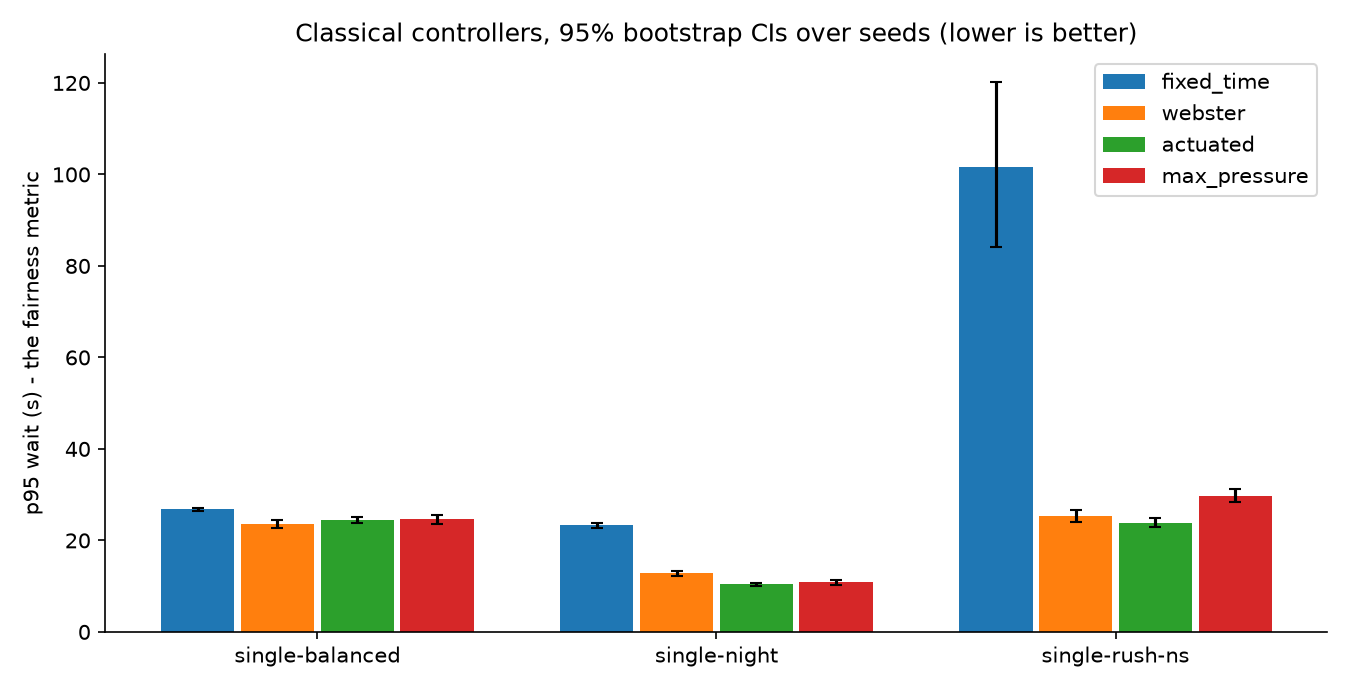
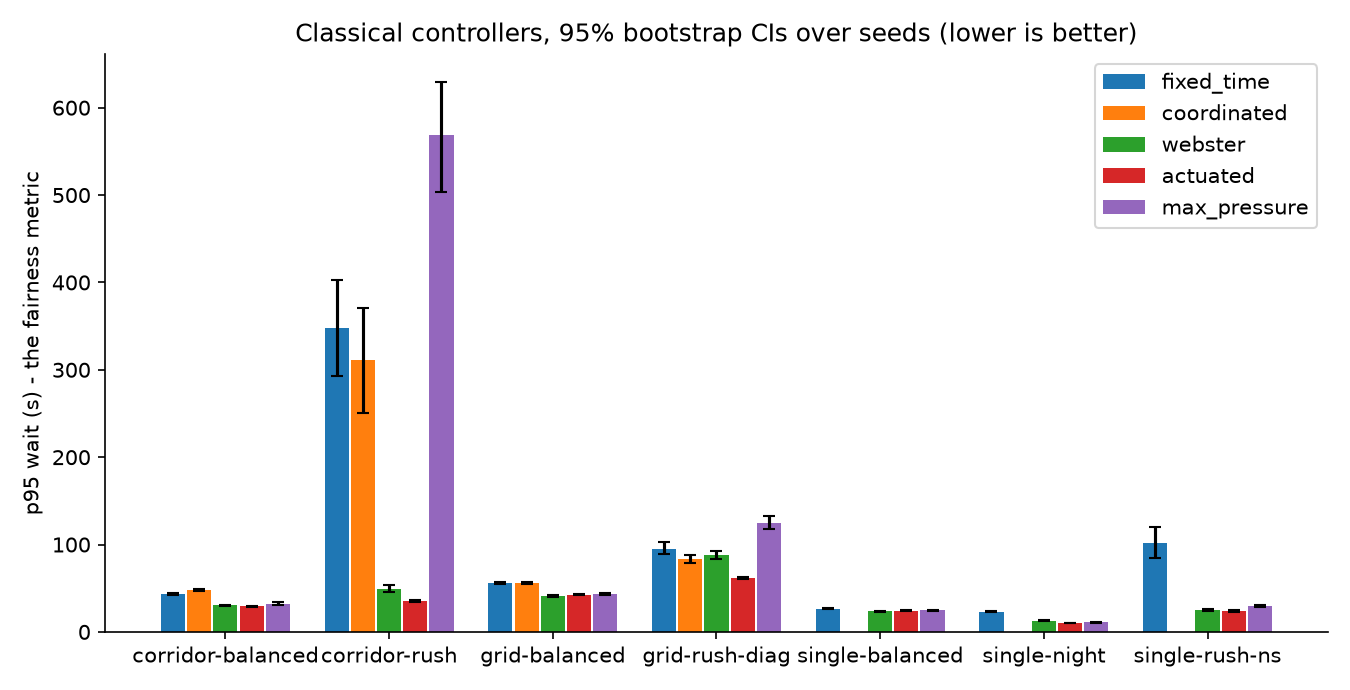
leaderboard v2: phase-2 classical board (7 scenarios, 20 seeds, CIs)

diff --git a/docs/leaderboard.md b/docs/leaderboard.md
@@ -1,4 +1,4 @@
-# Phase-1 leaderboard: classical controllers
+# Leaderboard: classical controllers
 
 Protocol (ADR 0002 §6): 20 seeds per cell, 300 s warmup excluded, 3600 s measurement window, mean [95% bootstrap CI] over seeds.
 
@@ -10,7 +10,49 @@ Honesty notes:
 - Webster runs on the sim's MEASURED saturation flow (1440 veh/h, startup lost 1.60 s), never textbook constants.
 - ActuatedGapOut sees only a stop-line loop + 50 m advance detector.
 - FixedTime runs a deliberately naive 50/50 split - it is the floor, and losing to it means something is broken.
+- Coordinated (multi-intersection scenarios only) is FixedTime plus travel-time offsets - the hand-built green wave. One-way progression: the counter-direction pays for the wave, and that is reported, not hidden.
+- max_pressure runs its network form on corridors/grids (subtracts true downstream-link occupancy via the Observation); single-intersection rows keep the phase-1 sink form for comparability.
 - refusals > 0 would mean a controller tried to break the signal machine's safety interlocks. forced > 0 means the max-red cap fired: either a genuinely starved road user (night max-pressure: blind to pedestrians, so the machine rescues them), or the first arrival on an approach whose green had been resting past the cap (night actuated: the cap front-runs a controller that honestly cannot see a distant car).
+
+## corridor-balanced
+
+| controller | travel time (s) | wait (s) | p95 wait (s) | throughput (veh/h) | stops/veh | ped wait (s) | p95 ped wait (s) | unserved (veh/ped) | refused | forced |
+|---|---|---|---|---|---|---|---|---|---|---|
+| fixed_time | 79.1 [78.7, 79.6] | 12.9 [12.7, 13.2] | 43.0 [42.1, 44.0] | 2008 [1989, 2026] | 0.73 [0.73, 0.74] | 17.6 [17.2, 17.9] | 47.8 [47.2, 48.3] | 0.1/4.5 | 0 | 0.0 |
+| coordinated | 78.9 [78.5, 79.3] | 12.3 [12.1, 12.5] | 48.1 [47.0, 49.3] | 2008 [1988, 2026] | 0.73 [0.73, 0.74] | 17.7 [17.5, 18.0] | 47.9 [47.3, 48.5] | 0.1/3.2 | 0 | 0.0 |
+| webster | 75.8 [75.4, 76.2] | 8.5 [8.2, 8.7] | 30.3 [29.4, 31.1] | 2007 [1987, 2025] | 0.74 [0.73, 0.75] | 12.4 [12.2, 12.6] | 33.9 [33.5, 34.3] | 0.1/1.7 | 0 | 0.0 |
+| actuated | 74.6 [74.2, 75.0] | 8.0 [7.8, 8.2] | 29.1 [28.4, 29.8] | 2007 [1989, 2025] | 0.67 [0.66, 0.67] | 14.4 [14.1, 14.6] | 40.2 [39.4, 41.1] | 0.1/1.9 | 0 | 0.0 |
+| max_pressure | 76.7 [76.1, 77.3] | 8.9 [8.6, 9.2] | 32.5 [30.7, 34.7] | 2006 [1987, 2024] | 0.78 [0.76, 0.79] | 12.0 [11.8, 12.2] | 33.2 [32.9, 33.6] | 0.1/1.9 | 0 | 0.0 |
+
+## corridor-rush
+
+| controller | travel time (s) | wait (s) | p95 wait (s) | throughput (veh/h) | stops/veh | ped wait (s) | p95 ped wait (s) | unserved (veh/ped) | refused | forced |
+|---|---|---|---|---|---|---|---|---|---|---|
+| fixed_time | 193.0 [181.0, 204.1] | 81.2 [71.6, 90.6] | 348.2 [293.3, 403.0] | 1492 [1478, 1505] | 2.63 [2.48, 2.75] | 17.7 [17.4, 18.0] | 47.9 [47.4, 48.4] | 44.8/3.8 | 0 | 0.0 |
+| coordinated | 183.7 [170.1, 196.4] | 73.8 [63.1, 84.3] | 311.3 [250.6, 370.3] | 1497 [1482, 1511] | 2.53 [2.35, 2.69] | 17.9 [17.6, 18.2] | 47.8 [47.4, 48.2] | 39.5/2.8 | 0 | 0.0 |
+| webster | 102.0 [99.9, 104.3] | 16.7 [15.8, 17.7] | 49.4 [45.3, 53.5] | 1575 [1555, 1594] | 1.20 [1.15, 1.25] | 17.5 [17.0, 17.9] | 47.6 [46.4, 48.7] | 0.0/2.6 | 0 | 0.0 |
+| actuated | 93.1 [92.4, 93.7] | 12.0 [11.7, 12.3] | 35.5 [34.7, 36.3] | 1568 [1550, 1587] | 0.94 [0.92, 0.96] | 17.8 [17.6, 18.0] | 49.4 [48.8, 49.9] | 0.0/2.5 | 0 | 0.0 |
+| max_pressure | 245.5 [234.0, 256.6] | 112.8 [102.4, 122.7] | 568.3 [503.9, 630.0] | 1433 [1422, 1445] | 4.02 [3.92, 4.10] | 12.5 [12.2, 12.7] | 33.8 [33.4, 34.3] | 99.2/2.4 | 0 | 0.0 |
+
+## grid-balanced
+
+| controller | travel time (s) | wait (s) | p95 wait (s) | throughput (veh/h) | stops/veh | ped wait (s) | p95 ped wait (s) | unserved (veh/ped) | refused | forced |
+|---|---|---|---|---|---|---|---|---|---|---|
+| fixed_time | 125.1 [124.8, 125.4] | 30.5 [30.3, 30.7] | 55.9 [55.2, 56.6] | 3010 [2989, 3030] | 1.49 [1.48, 1.49] | 16.3 [16.1, 16.5] | 46.0 [45.6, 46.3] | 0.1/9.1 | 0 | 0.0 |
+| coordinated | 119.6 [119.1, 120.1] | 26.4 [26.2, 26.7] | 55.9 [55.1, 56.8] | 3012 [2992, 3031] | 1.38 [1.37, 1.39] | 16.3 [16.1, 16.5] | 46.5 [46.1, 46.8] | 0.1/6.0 | 0 | 0.0 |
+| webster | 116.2 [115.7, 116.6] | 17.4 [17.1, 17.7] | 41.2 [40.5, 41.9] | 3014 [2994, 3034] | 1.52 [1.50, 1.54] | 11.3 [11.2, 11.5] | 32.4 [32.1, 32.6] | 0.1/4.3 | 0 | 0.0 |
+| actuated | 113.2 [112.8, 113.7] | 15.8 [15.5, 16.0] | 42.6 [42.0, 43.3] | 3009 [2987, 3029] | 1.32 [1.31, 1.33] | 13.8 [13.6, 14.0] | 40.8 [40.0, 41.4] | 0.1/5.3 | 0 | 0.0 |
+| max_pressure | 117.6 [117.2, 118.0] | 17.9 [17.7, 18.2] | 43.4 [42.7, 44.2] | 3014 [2992, 3034] | 1.59 [1.57, 1.60] | 10.9 [10.8, 11.1] | 31.4 [31.1, 31.8] | 0.1/4.1 | 0 | 0.0 |
+
+## grid-rush-diag
+
+| controller | travel time (s) | wait (s) | p95 wait (s) | throughput (veh/h) | stops/veh | ped wait (s) | p95 ped wait (s) | unserved (veh/ped) | refused | forced |
+|---|---|---|---|---|---|---|---|---|---|---|
+| fixed_time | 154.0 [151.6, 156.9] | 45.3 [44.0, 46.9] | 94.9 [88.8, 102.5] | 3595 [3573, 3616] | 2.05 [2.00, 2.11] | 16.1 [15.9, 16.4] | 45.7 [45.5, 45.9] | 0.1/8.0 | 0 | 0.0 |
+| coordinated | 142.1 [140.2, 144.1] | 37.3 [36.3, 38.4] | 83.3 [78.6, 88.2] | 3590 [3567, 3612] | 1.77 [1.72, 1.81] | 16.1 [16.0, 16.3] | 45.8 [45.3, 46.3] | 0.1/5.2 | 0 | 0.0 |
+| webster | 151.5 [149.1, 154.1] | 39.7 [38.0, 41.4] | 87.9 [83.1, 93.0] | 3600 [3576, 3624] | 2.06 [2.01, 2.10] | 18.5 [18.2, 18.9] | 54.5 [53.4, 55.7] | 0.1/8.2 | 0 | 0.0 |
+| actuated | 131.2 [130.5, 132.0] | 25.9 [25.5, 26.4] | 61.4 [60.4, 62.3] | 3605 [3581, 3628] | 1.57 [1.56, 1.59] | 19.4 [19.1, 19.8] | 56.5 [55.8, 57.3] | 0.1/7.5 | 0 | 0.0 |
+| max_pressure | 192.5 [187.3, 198.0] | 54.3 [51.9, 56.8] | 125.0 [117.9, 132.6] | 3536 [3514, 3558] | 3.93 [3.77, 4.10] | 11.0 [10.9, 11.2] | 31.7 [31.4, 32.0] | 0.4/4.2 | 0 | 0.0 |
 
 ## single-balanced
 